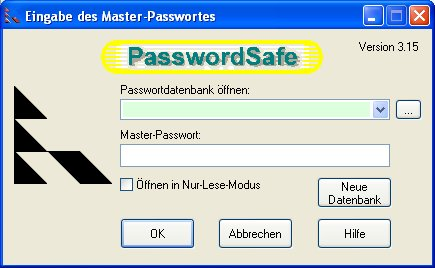
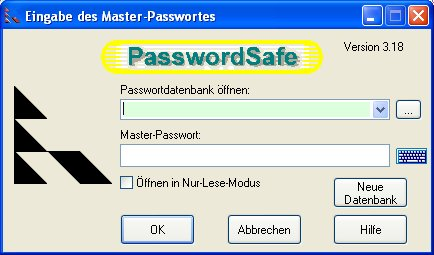
German manual with Virtual Keyboard

Changed region(s): [[0.0, 0.0, 1.0, 1.0], [0.2696, 0.7961, 0.4493, 0.9608]]

diff --git a/help/pwsafeDE/html/create_new_db.html b/help/pwsafeDE/html/create_new_db.html
@@ -2,7 +2,7 @@
 <html>
 <head>
   <title>Neue Datenbank erstellen</title>
-<!-- pwsafe version: 2.11--><!-- Modified: 15/06/2005 --><!--Popup control --><!-- VdG 3.15 DE 31/01/2009 -->
+<!-- pwsafe version: 2.11--><!-- Modified: 15/06/2005 --><!--Popup control --><!-- VdG 3.18 DE 13/06/2009 -->
   <script language="javascript" src="html/popups.js">
 		</script>
   <link rel="stylesheet" type="text/css" href="style.css">
@@ -26,7 +26,12 @@
 <img alt="Fenster beim Start" src="images/default_safe_open.jpg"><br>
 <br>
 <img alt="Abfrage des Passwortes einer neuen Datenbank" src="images/new_safe.jpg">
-		</center>
+</center>
+<h3>Virtuelle Tastatur</h3>
+<p>Um ein Master-Passwort sicher zu gestalten, k&ouml;nnen auch Zeichen wie "&auml;", "&ouml;" oder &auml;hnliche verwendet werden. Zur Eingabe der Zeichen dieses Master-Passwortes an einer fremden Tastatur, kann eine virtuelle Tastatur benutzt werden. Die fremdw&ouml;rtliche Zeichen, die an der eigenen Tastatur nicht eingegeben werden k&ouml;nnten, k&ouml;nnen somit eingegeben werden, um so das "richtige" Master-Passwort zu bilden.</p>
+<center>
+<br><img alt="Eingabe des Passwortes mit einer virtuellen tastatur" src="images/virtual_beyboard.jpg">
+</center>
 		<!-- Added some white space at the bottom for natural scrolling -->
 		<br>
 <br>
@@ -35,6 +40,7 @@
 			<param name="Keyword" value="Neue Datenbank erstellen">
 			<param name="Keyword" value="Master-Passwort">
 			<param name="Keyword" value="Safe Combination">
+			<param name="Keyword" value="Virtuelle Tastatur">
 			<param name="Keyword" value="Datenbank &ouml;ffnen">
 		</object>
 </body>
